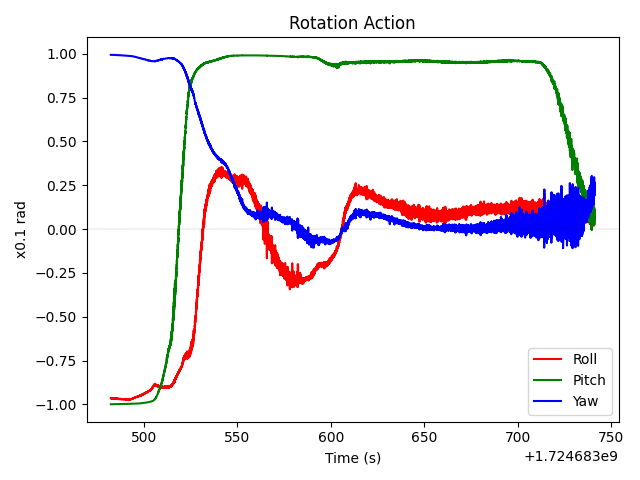
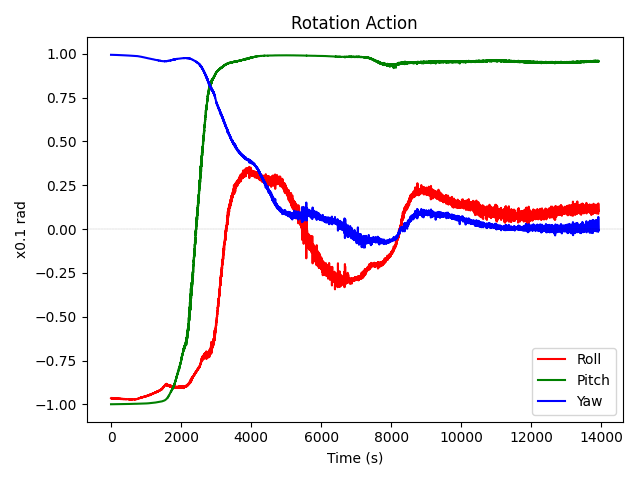
test11 data added with its figures

diff --git a/rosbag_first.py b/rosbag_first.py
@@ -53,11 +53,11 @@ def extract_filtered_topic_data(bag, topic, start_time, end_time):
     return messages
 
 # Function to extract messages and shift their timestamps
-def extract_shifted_topic_data(bag, topic, reference_start_time):
+def extract_shifted_topic_data(bag, topic, reference_start_time, refrence_end_time):
     messages = []
     for topic, msg, t in bag.read_messages(topics=[topic]):
         timestamp = t.to_sec()
-        if timestamp >= reference_start_time:
+        if timestamp >= reference_start_time and timestamp <= refrence_end_time:
             messages.append(msg)
     return messages
 
@@ -81,9 +81,9 @@ def plot_action_topic(messages):
 
     # Plot linear.x, linear.y, linear.z in one figure
     plt.figure()
-    plt.plot(timestamps, linear_x,  label='X', color='red')
-    plt.plot(timestamps, linear_y,  label='Y', color='green')
-    plt.plot(timestamps, linear_z,  label='Z', color='blue')
+    plt.plot( linear_x,  label='X', color='red')
+    plt.plot( linear_y,  label='Y', color='green')
+    plt.plot( linear_z,  label='Z', color='blue')
     plt.axhline(0, color='black', linestyle='--', linewidth=.1)
     plt.title('Displacement Action')
     plt.xlabel('Time (s)')
@@ -95,9 +95,9 @@ def plot_action_topic(messages):
 
     # Plot angular.x, angular.y, angular.z in another figure
     plt.figure()
-    plt.plot(timestamps, angular_x, label='Roll', color='red')
-    plt.plot(timestamps, angular_y, label='Pitch', color='green')
-    plt.plot(timestamps, angular_z, label='Yaw', color='blue')
+    plt.plot( angular_x, label='Roll', color='red')
+    plt.plot( angular_y, label='Pitch', color='green')
+    plt.plot( angular_z, label='Yaw', color='blue')
     plt.axhline(0, color='black', linestyle='--', linewidth=.1)
     plt.title('Rotation Action')
     plt.xlabel('Time (s)')
@@ -128,9 +128,9 @@ def plot_pose_topic(messages):
 
     # Plot position.x, position.y, position.z in one figure
     plt.figure()
-    plt.plot(timestamps, position_x,  label='Position X', color='red')
-    plt.plot(timestamps, position_y,  label='Position Y', color='green')
-    plt.plot(timestamps, position_z,  label='Position Z', color='blue')
+    plt.plot( position_x,  label='Position X', color='red')
+    plt.plot( position_y,  label='Position Y', color='green')
+    plt.plot( position_z,  label='Position Z', color='blue')
     plt.title('Position over Time')
     plt.xlabel('Time (s)')
     plt.ylabel('Position')
@@ -141,9 +141,9 @@ def plot_pose_topic(messages):
 
     # Plot orientation.x, orientation.y, orientation.z, orientation.w in another figure
     plt.figure()
-    plt.plot(timestamps, orientation_roll, label='Orientation Roll', color='red')
-    plt.plot(timestamps, orientation_pitch, label='Orientation Pitch', color='green')
-    plt.plot(timestamps, orientation_yaw, label='Orientation Yaw', color='blue')
+    plt.plot( orientation_roll, label='Orientation Roll', color='red')
+    plt.plot( orientation_pitch, label='Orientation Pitch', color='green')
+    plt.plot( orientation_yaw, label='Orientation Yaw', color='blue')
     plt.title('Orientation over Time')
     plt.xlabel('Time (s)')
     plt.ylabel('Orientation')
@@ -191,12 +191,12 @@ def plot_pose_topic_w_ref(messages, ref):
 
     # Plot position.x, position.y, position.z in one figure
     plt.figure()
-    plt.plot(timestamps, position_x, color='red')
-    plt.plot(timestamps, position_y, color='green')
-    plt.plot(timestamps, position_z, color='blue')
-    plt.plot(timestamps_ref, position_x_ref, '--', color='red')
-    plt.plot(timestamps_ref, position_y_ref, '--', color='green')
-    plt.plot(timestamps_ref, position_z_ref, '--', color='blue')
+    plt.plot(position_x, color='red')
+    plt.plot(position_y, color='green')
+    plt.plot(position_z, color='blue')
+    plt.plot(position_x_ref, '--', color='red')
+    plt.plot(position_y_ref, '--', color='green')
+    plt.plot(position_z_ref, '--', color='blue')
     plt.title('Position over Time')
     plt.xlabel('Time (s)')
     plt.ylabel('Position')
@@ -209,14 +209,14 @@ def plot_pose_topic_w_ref(messages, ref):
 
     # Plot orientation.x, orientation.y, orientation.z, orientation.w in another figure
     plt.figure()
-    plt.plot(timestamps, orientation_x, color='red')
-    plt.plot(timestamps, orientation_y, color='green')
-    plt.plot(timestamps, orientation_z, color='blue')
-    plt.plot(timestamps, orientation_w, color='purple')
-    plt.plot(timestamps_ref, orientation_x_ref, '--', color='red')
-    plt.plot(timestamps_ref, orientation_y_ref, '--', color='green')
-    plt.plot(timestamps_ref, orientation_z_ref, '--', color='blue')
-    plt.plot(timestamps_ref, orientation_w_ref, '--', color='purple')
+    plt.plot(orientation_x, color='red')
+    plt.plot(orientation_y, color='green')
+    plt.plot(orientation_z, color='blue')
+    plt.plot(orientation_w, color='purple')
+    plt.plot(orientation_x_ref, '--', color='red')
+    plt.plot(orientation_y_ref, '--', color='green')
+    plt.plot(orientation_z_ref, '--', color='blue')
+    plt.plot(orientation_w_ref, '--', color='purple')
     plt.title('Orientation (quat) over Time')
     plt.xlabel('Time (s)')
     plt.ylabel('Orientation')
@@ -229,12 +229,12 @@ def plot_pose_topic_w_ref(messages, ref):
 
     # Plot orientation roll, pitch, yaw
     plt.figure()
-    plt.plot(timestamps, orientation_roll, label='Orientation Roll', color='red')
-    plt.plot(timestamps, orientation_pitch, label='Orientation Pitch', color='green')
-    plt.plot(timestamps, orientation_yaw, label='Orientation Yaw', color='blue')
-    plt.plot(timestamps_ref, orientation_roll_ref, '--', label='Orientation Roll Ref', color='red')
-    plt.plot(timestamps_ref, orientation_pitch_ref, '--', label='Orientation Pitch Ref', color='green')
-    plt.plot(timestamps_ref, orientation_yaw_ref, '--', label='Orientation Yaw Ref', color='blue')
+    plt.plot(orientation_roll, label='Orientation Roll', color='red')
+    plt.plot(orientation_pitch, label='Orientation Pitch', color='green')
+    plt.plot(orientation_yaw, label='Orientation Yaw', color='blue')
+    plt.plot(orientation_roll_ref, '--', label='Orientation Roll Ref', color='red')
+    plt.plot(orientation_pitch_ref, '--', label='Orientation Pitch Ref', color='green')
+    plt.plot(orientation_yaw_ref, '--', label='Orientation Yaw Ref', color='blue')
     plt.title('Orientation (euler) over Time')
     plt.xlabel('Time (s)')
     plt.ylabel('Orientation')
@@ -332,20 +332,34 @@ def calculate_velocity(gripper_message, target_message, window_size=10):
     target_angular_velocity_y_smooth = uniform_filter1d(target_angular_velocity_y, size=window_size*5)
     target_angular_velocity_z_smooth = uniform_filter1d(target_angular_velocity_z, size=window_size*5)
 
+    gripper_velocity_x_smooth[0] = 0
+    gripper_velocity_y_smooth[0] = 0
+    gripper_velocity_z_smooth[0] = 0
+    target_velocity_x_smooth[0] = 0
+    target_velocity_y_smooth[0] = 0
+    target_velocity_z_smooth[0] = 0
+
+    gripper_angular_velocity_x_smooth[0] = 0
+    gripper_angular_velocity_y_smooth[0] = 0
+    gripper_angular_velocity_z_smooth[0] = 0
+    target_angular_velocity_x_smooth[0] = 0
+    target_angular_velocity_y_smooth[0] = 0
+    target_angular_velocity_z_smooth[0] = 0
+
     # Plot the velocity
     plt.figure()
-    plt.plot(timestamps[:-1], gripper_velocity_x,  alpha=0.3, color='red')
-    plt.plot(timestamps[:-1], gripper_velocity_x_smooth, label='Velocity X', color='red')
-    plt.plot(timestamps[:-1], gripper_velocity_y,  alpha=0.3, color='green')
-    plt.plot(timestamps[:-1], gripper_velocity_y_smooth, label='Velocity Y', color='green')
-    plt.plot(timestamps[:-1], gripper_velocity_z, alpha=0.3, color='blue')
-    plt.plot(timestamps[:-1], gripper_velocity_z_smooth, label='Velocity Z', color='blue')
-    plt.plot(timestamps[:-1], target_velocity_x,  alpha=0.3, color='orange')
-    plt.plot(timestamps[:-1], target_velocity_x_smooth, label='Target Velocity X', color='orange')
-    plt.plot(timestamps[:-1], target_velocity_y,  alpha=0.3, color='purple')
-    plt.plot(timestamps[:-1], target_velocity_y_smooth, label='Target Velocity Y', color='purple')
-    plt.plot(timestamps[:-1], target_velocity_z, alpha=0.3, color='cyan')
-    plt.plot(timestamps[:-1], target_velocity_z_smooth, label='Target Velocity Z', color='cyan')
+    # plt.plot(timestamps[:-1], gripper_velocity_x,  alpha=0.3, color='red')
+    plt.plot( gripper_velocity_x_smooth, label='Velocity X', color='red')
+    # plt.plot(timestamps[:-1], gripper_velocity_y,  alpha=0.3, color='green')
+    plt.plot( gripper_velocity_y_smooth, label='Velocity Y', color='green')
+    # plt.plot(timestamps[:-1], gripper_velocity_z, alpha=0.3, color='blue')
+    plt.plot( gripper_velocity_z_smooth, label='Velocity Z', color='blue')
+    # plt.plot(timestamps[:-1], target_velocity_x,  alpha=0.3, color='orange')
+    plt.plot( target_velocity_x_smooth, label='Target Velocity X', color='red', linestyle='--')
+    # plt.plot(timestamps[:-1], target_velocity_y,  alpha=0.3, color='purple')
+    plt.plot(target_velocity_y_smooth, label='Target Velocity Y', color='green', linestyle='--')
+    # plt.plot(timestamps[:-1], target_velocity_z, alpha=0.3, color='cyan')
+    plt.plot( target_velocity_z_smooth, label='Target Velocity Z', color='blue', linestyle='--')
     plt.axhline(0, color='black', linestyle='--', linewidth=.1)
     plt.title('Linear Velocity over Time')
     plt.xlabel('Time (s)')
@@ -357,12 +371,15 @@ def calculate_velocity(gripper_message, target_message, window_size=10):
 
     # Plot the angular velocity
     plt.figure()
-    plt.plot(timestamps[:-1], gripper_angular_velocity_x, alpha=0.3, color='red')
-    plt.plot(timestamps[:-1], gripper_angular_velocity_x_smooth, label='Angular Velocity X', color='red')
-    plt.plot(timestamps[:-1], gripper_angular_velocity_y, alpha=0.3, color='green')
-    plt.plot(timestamps[:-1], gripper_angular_velocity_y_smooth, label='Angular Velocity Y', color='green')
-    plt.plot(timestamps[:-1], gripper_angular_velocity_z, alpha=0.3, color='blue')
-    plt.plot(timestamps[:-1], gripper_angular_velocity_z_smooth, label='Angular Velocity Z', color='blue')
+    # plt.plot(timestamps[:-1], gripper_angular_velocity_x, alpha=0.3, color='red')
+    plt.plot( gripper_angular_velocity_x_smooth, label='Angular Velocity X', color='red')
+    # plt.plot(timestamps[:-1], gripper_angular_velocity_y, alpha=0.3, color='green')
+    plt.plot( gripper_angular_velocity_y_smooth, label='Angular Velocity Y', color='green')
+    # plt.plot(timestamps[:-1], gripper_angular_velocity_z, alpha=0.3, color='blue')
+    plt.plot( gripper_angular_velocity_z_smooth, label='Angular Velocity Z', color='blue')
+    plt.plot(target_angular_velocity_x_smooth, label='Target Angular Velocity X', color='red', linestyle='--', linewidth=.5)
+    plt.plot(target_angular_velocity_y_smooth, label='Target Angular Velocity Y', color='green', linestyle='--', linewidth=.5)
+    plt.plot(target_angular_velocity_z_smooth, label='Target Angular Velocity Z', color='blue', linestyle='--', linewidth=.5)
     plt.axhline(0, color='black', linestyle='--', linewidth=.1)
     plt.title('Angular Velocity over Time')
     plt.xlabel('Time (s)')
@@ -401,7 +418,7 @@ def calculate_distance_and_orientation_difference(gripper_messages, target_messa
 def plot_distance_and_orientation(distances, orientation_differences, timestamps):
     # Plot distances
     plt.figure()
-    plt.plot(timestamps, distances, label='Distance', color='blue')
+    plt.plot(distances, label='Distance', color='blue')
     plt.axhline(0, color='black', linestyle='--', linewidth=.1)
     plt.title('Distance between Gripper and Target over Time')
     plt.xlabel('Time (s)')
@@ -413,7 +430,7 @@ def plot_distance_and_orientation(distances, orientation_differences, timestamps
 
     # Plot orientation differences
     plt.figure()
-    plt.plot(timestamps, orientation_differences, label='Orientation Difference', color='orange')
+    plt.plot(orientation_differences, label='Orientation Difference', color='blue')
     plt.axhline(0, color='black', linestyle='--', linewidth=.1)
     plt.title('Orientation Difference between Gripper and Target over Time')
     plt.xlabel('Time (s)')
@@ -429,7 +446,7 @@ bag = rosbag.Bag(bag_path, 'r')
 
 # Define how much time to cut from the start and the end
 cut_first_x_seconds = 0  # Cut first X seconds
-cut_last_y_seconds = 0   # Cut last Y seconds
+cut_last_y_seconds = 50   # Cut last Y seconds
 
 # Get the actual start and end time of the bag
 bag_start_time = bag.get_start_time()
@@ -438,25 +455,25 @@ print(f"Bag start time: {bag_start_time}")
 print(f"Bag end time: {bag_end_time}")
 
 # Calculate the new start and end times after cutting
-start_time = bag_start_time + cut_first_x_seconds
-end_time = bag_end_time - cut_last_y_seconds
+# start_time = bag_start_time + cut_first_x_seconds
+reference_end_time = bag_end_time - cut_last_y_seconds
 reference_start_time = get_topic_start_time(bag, '/action_topic')
 
 # Get bag info and print it
-info = get_bag_info(bag)
-print(f"Bag Info: {info}")
+# info = get_bag_info(bag)
+# print(f"Bag Info: {info}")
 
 # Extract data from a topic
-action_data = extract_topic_data(bag, '/action_topic')
+action_data = extract_shifted_topic_data(bag, '/action_topic', reference_start_time, reference_end_time)
 plot_action_topic(action_data)
 gripper_pose_topic = '/capture_c_a_tool1/pose'
-gripper_pose_data = extract_shifted_topic_data(bag, gripper_pose_topic, reference_start_time)
+gripper_pose_data = extract_shifted_topic_data(bag, gripper_pose_topic, reference_start_time, reference_end_time)
 target_pose_topic = '/capture_ot_offset/pose'
-target_pose_data = extract_shifted_topic_data(bag, target_pose_topic, reference_start_time)
+target_pose_data = extract_shifted_topic_data(bag, target_pose_topic, reference_start_time, reference_end_time)
 target_way_pts_topic = '/Way_pts_target_pose'
-target_way_pts_data = extract_shifted_topic_data(bag, target_way_pts_topic, reference_start_time)
+target_way_pts_data = extract_shifted_topic_data(bag, target_way_pts_topic, reference_start_time, reference_end_time)
 chaser_way_pts_topic = '/Way_pts_chaser_pose'
-chaser_way_pts_data = extract_shifted_topic_data(bag, chaser_way_pts_topic, reference_start_time)
+chaser_way_pts_data = extract_shifted_topic_data(bag, chaser_way_pts_topic, reference_start_time, reference_end_time)
 plot_pose_topic_w_ref(gripper_pose_data, target_pose_data)
 
 calculate_velocity(gripper_pose_data, target_pose_data)
